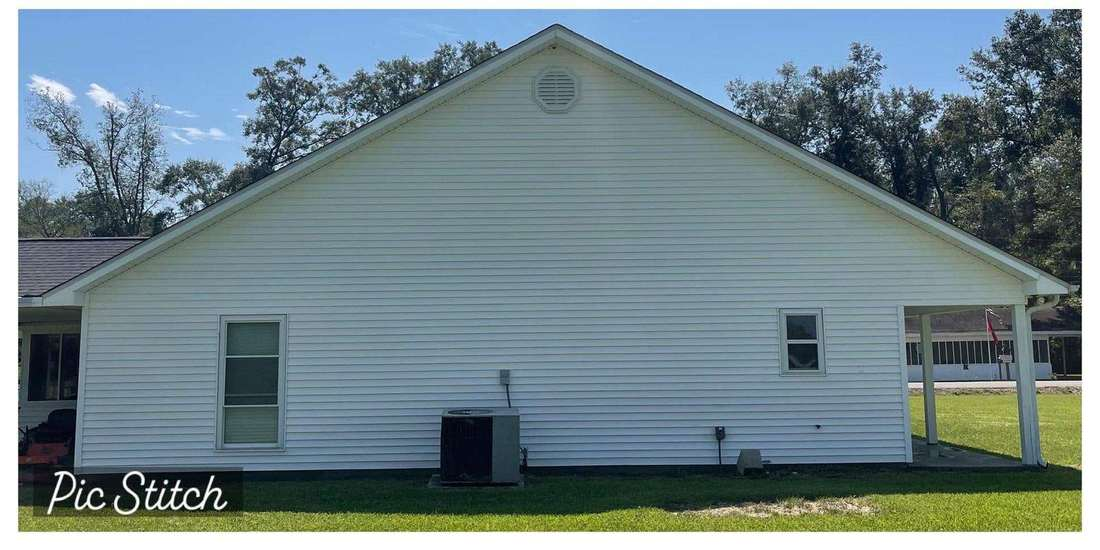
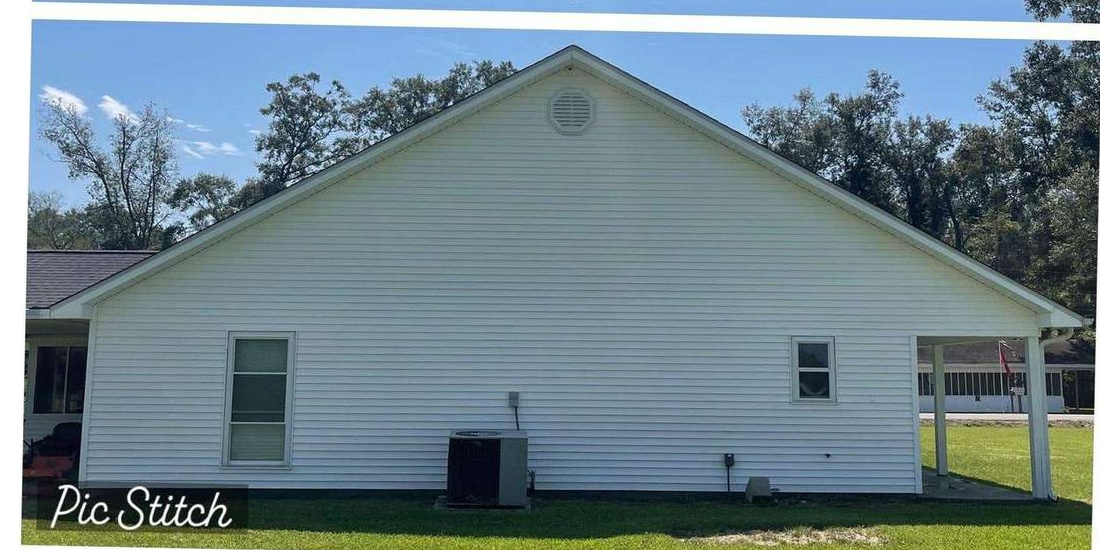
Add files via upload

diff --git a/style.css b/style.css
@@ -95,16 +95,23 @@ ul { list-style: none; margin: 0; padding: 0; }
 
 .hero-visual { position: relative; transform: translate3d(0, var(--hero-shift, 0), 0); will-change: transform; animation: hero-settle .9s .18s cubic-bezier(.2,.75,.2,1) both; }
 .ba-frame { position: relative; padding: 11px; background: rgba(255,255,255,.1); border: 1px solid rgba(255,255,255,.18); border-radius: 34px; box-shadow: 0 40px 85px -30px rgba(0,0,0,.7); backdrop-filter: blur(8px); transform: rotate(1.1deg); }
-.ba-slider { position: relative; aspect-ratio: 1.16; overflow: hidden; border-radius: 24px; cursor: ew-resize; user-select: none; background: var(--navy-deep); }
-.ba-slider:focus-visible { outline-color: var(--white); }
-.ba-img { position: absolute; inset: 0; height: 100%; object-fit: cover; pointer-events: none; }
-.ba-clip { position: absolute; inset: 0 auto 0 0; width: 50%; overflow: hidden; }
-.ba-clip .ba-img { width: 200%; max-width: none; }
-.ba-tag { position: absolute; top: 17px; padding: 7px 13px; color: var(--white); background: rgba(6,27,62,.75); border: 1px solid rgba(255,255,255,.18); border-radius: 999px; backdrop-filter: blur(6px); font-size: .65rem; font-weight: 800; letter-spacing: .12em; text-transform: uppercase; }
+.ba-slider { position: relative; isolation: isolate; aspect-ratio: 1.16; overflow: hidden; border-radius: 24px; cursor: crosshair; user-select: none; background: var(--navy-deep); touch-action: pan-y pinch-zoom; }
+.ba-slider::after { content: ""; position: absolute; z-index: 6; inset: 0; border: 1px solid rgba(255,255,255,.13); border-radius: inherit; box-shadow: inset 0 0 46px rgba(6,27,62,.12); pointer-events: none; }
+.ba-slider:focus-visible { outline: 2px solid var(--white); outline-offset: 4px; }
+.ba-img { position: absolute; inset: 0; width: 100%; height: 100%; object-fit: cover; object-position: 50% 50%; pointer-events: none; transform: translateZ(0); }
+.ba-clip { position: absolute; z-index: 2; inset: 0; width: 100%; overflow: hidden; clip-path: inset(0 50% 0 0); will-change: clip-path; }
+.ba-clip .ba-img { width: 100%; max-width: none; }
+.ba-tag { position: absolute; z-index: 5; top: 17px; padding: 7px 13px; color: var(--white); background: rgba(6,27,62,.75); border: 1px solid rgba(255,255,255,.18); border-radius: 999px; backdrop-filter: blur(6px); font-size: .65rem; font-weight: 800; letter-spacing: .12em; text-transform: uppercase; transition: transform .35s cubic-bezier(.2,.75,.2,1), background .35s ease, box-shadow .35s ease; }
 .ba-tag-before { left: 17px; }.ba-tag-after { right: 17px; background: rgba(20,116,228,.82); }
-.ba-handle { position: absolute; top: 0; bottom: 0; width: 3px; display: flex; align-items: center; justify-content: center; background: var(--white); transform: translateX(-50%); box-shadow: 0 0 0 1px rgba(6,27,62,.08); }
-.ba-handle span { width: 48px; height: 48px; display: grid; place-items: center; color: var(--navy); background: var(--white); border: 5px solid rgba(255,255,255,.26); border-radius: 50%; box-shadow: 0 10px 24px rgba(6,27,62,.32); font-size: 1.25rem; font-weight: 800; white-space: nowrap; }
+.ba-slider.is-revealing .ba-tag { transform: translateY(-2px); box-shadow: 0 8px 22px rgba(6,27,62,.18); }
+.ba-handle { position: absolute; z-index: 4; top: 0; bottom: 0; left: 50%; width: 2px; background: linear-gradient(to bottom, rgba(255,255,255,.18), rgba(255,255,255,.98) 14%, #8fd0ff 50%, rgba(255,255,255,.98) 86%, rgba(255,255,255,.18)); transform: translateX(-50%); box-shadow: 0 0 10px rgba(255,255,255,.45), 0 0 24px rgba(66,165,255,.28); pointer-events: none; will-change: left; transition: opacity .3s ease, box-shadow .3s ease; }
+.ba-handle::before { content: ""; position: absolute; inset: 0 -24px; background: linear-gradient(90deg, transparent, rgba(255,255,255,.04) 28%, rgba(143,208,255,.13) 50%, rgba(255,255,255,.04) 72%, transparent); opacity: .5; filter: blur(3px); transition: opacity .3s ease; }
+.ba-handle::after { content: ""; position: absolute; top: 50%; left: 50%; width: 7px; height: 7px; border-radius: 50%; background: var(--white); box-shadow: 0 0 0 5px rgba(255,255,255,.1), 0 0 24px 7px rgba(66,165,255,.35); transform: translate(-50%, -50%); opacity: .72; transition: transform .3s cubic-bezier(.2,.75,.2,1), opacity .3s ease; }
+.ba-slider.is-revealing .ba-handle { box-shadow: 0 0 12px rgba(255,255,255,.72), 0 0 34px rgba(66,165,255,.58); }
+.ba-slider.is-revealing .ba-handle::before { opacity: 1; }
+.ba-slider.is-revealing .ba-handle::after { opacity: 1; transform: translate(-50%, -50%) scale(1.18); }
 .ba-caption { position: absolute; left: 50%; bottom: -37px; color: rgba(255,255,255,.67); font-size: .76rem; font-weight: 600; transform: translateX(-50%); white-space: nowrap; }
+.ba-caption-touch { display: none; }
 .hero-proof { position: absolute; right: -24px; bottom: 41px; z-index: 3; min-width: 220px; padding: 17px 20px; color: var(--ink); background: var(--white); border-left: 4px solid var(--coral); border-radius: 12px; box-shadow: 0 22px 45px -24px rgba(0,0,0,.8); transform: rotate(-2deg); animation: proof-float 5s 1.1s ease-in-out infinite; }
 .hero-proof strong, .hero-proof span { display: block; }.hero-proof strong { color: var(--navy); font-size: .9rem; }.hero-proof span { margin-top: 3px; color: var(--muted); font-size: .72rem; }
 .hero-swoop { position: absolute; z-index: 1; left: -5%; right: -5%; bottom: -80px; height: 150px; background: var(--white); border-radius: 50% 50% 0 0 / 45% 45% 0 0; }
@@ -271,7 +278,7 @@ ul { list-style: none; margin: 0; padding: 0; }
   .nav-toggle { display: flex; }.nav-toggle.active span:nth-child(1) { transform: translateY(7px) rotate(45deg); }.nav-toggle.active span:nth-child(2) { opacity: 0; }.nav-toggle.active span:nth-child(3) { transform: translateY(-7px) rotate(-45deg); }
   .main-nav { position: fixed; inset: 102px 0 auto; max-height: calc(100vh - 102px); display: grid; gap: 0; padding: 18px 24px 28px; background: var(--white); border-bottom: 1px solid var(--line); box-shadow: 0 24px 40px -30px rgba(6,27,62,.55); opacity: 0; visibility: hidden; transform: translateY(-12px); transition: opacity .2s ease, transform .2s ease, visibility .2s ease; }
   .main-nav.open { opacity: 1; visibility: visible; transform: translateY(0); }.main-nav > a { padding: 15px 3px; border-bottom: 1px solid var(--line); }.main-nav .nav-cta { margin-top: 13px; padding: 14px 20px; text-align: center; }
-  .hero { padding: 59px 0 125px; }.hero-grid { gap: 51px; }.hero h1 { font-size: clamp(3.3rem, 17vw, 5rem); }.hero-sub { font-size: .92rem; }.hero-actions { display: grid; }.hero-actions .btn { width: 100%; }.trust-list { gap: 11px 17px; }.ba-frame { padding: 7px; border-radius: 24px; transform: none; }.ba-slider { border-radius: 18px; }.hero-proof { right: -5px; bottom: 32px; min-width: 184px; padding: 13px 16px; }.hero-proof strong { font-size: .8rem; }.hero-proof span { font-size: .65rem; }.ba-caption { bottom: -34px; }.hero-swoop { height: 110px; bottom: -62px; }
+  .hero { padding: 59px 0 125px; }.hero-grid { gap: 51px; }.hero h1 { font-size: clamp(3.3rem, 17vw, 5rem); }.hero-sub { font-size: .92rem; }.hero-actions { display: grid; }.hero-actions .btn { width: 100%; }.trust-list { gap: 11px 17px; }.ba-frame { padding: 7px; border-radius: 24px; transform: none; }.ba-slider { border-radius: 18px; cursor: ew-resize; }.ba-caption-desktop { display: none; }.ba-caption-touch { display: inline; }.hero-proof { right: -5px; bottom: 32px; min-width: 184px; padding: 13px 16px; }.hero-proof strong { font-size: .8rem; }.hero-proof span { font-size: .65rem; }.ba-caption { bottom: -34px; }.hero-swoop { height: 110px; bottom: -62px; }
   .proof-strip { margin-top: -12px; }.proof-grid { padding: 19px 10px; border-radius: 16px; }.proof-grid > div { gap: 9px; padding-left: 11px; padding-right: 11px; }.proof-grid strong { font-size: 1.4rem; }.proof-grid span { font-size: .61rem; }
   .section-heading { grid-template-columns: 1fr; gap: 18px; margin-bottom: 36px; }.section-heading h2, .about h2, .areas h2, .quote h2 { font-size: clamp(2.55rem, 12vw, 3.5rem); }
   .service-grid { grid-template-columns: 1fr; }.service-card { min-height: 285px; }
@@ -294,4 +301,10 @@ ul { list-style: none; margin: 0; padding: 0; }
   *, *::before, *::after { scroll-behavior: auto !important; animation-duration: .01ms !important; animation-iteration-count: 1 !important; transition-duration: .01ms !important; }
   .scroll-progress { display: none; }
   .hero-visual, .hero-orbit, .motion-ready .reveal { opacity: 1; transform: none; }
+}
+
+@media (hover: none) {
+  .ba-slider { cursor: ew-resize; }
+  .ba-caption-desktop { display: none; }
+  .ba-caption-touch { display: inline; }
 }

diff --git a/script.js b/script.js
@@ -3,105 +3,161 @@
   if (!slider) return;
 
   const clip = slider.querySelector('.ba-clip');
-  const beforeImage = clip?.querySelector('.ba-before');
   const handle = slider.querySelector('.ba-handle');
-  if (!clip || !beforeImage || !handle) return;
+  if (!clip || !handle) return;
 
-  let value = 50;
-  let dragging = false;
-  let activePointerId = null;
-  let startX = 0;
-  let startY = 0;
-  let dragIntent = null;
+  const reducedMotion = window.matchMedia?.('(prefers-reduced-motion: reduce)').matches ?? false;
+  let targetValue = 50;
+  let renderedValue = 50;
+  let animationFrame = null;
+  let touchPointerId = null;
+  let touchStartX = 0;
+  let touchStartY = 0;
+  let touchIntent = null;
 
-  slider.style.touchAction = 'pan-y pinch-zoom';
+  const clamp = (value) => Math.max(0, Math.min(100, value));
 
-  const update = (nextValue) => {
-    value = Math.max(0, Math.min(100, Math.round(nextValue)));
-    clip.style.width = `${value}%`;
-    beforeImage.style.width = `${slider.getBoundingClientRect().width}px`;
-    handle.style.left = `${value}%`;
-    slider.setAttribute('aria-valuenow', String(value));
-    slider.setAttribute('aria-valuetext', `${value} percent before image`);
+  const render = (value) => {
+    const safeValue = clamp(value);
+    clip.style.clipPath = `inset(0 ${100 - safeValue}% 0 0)`;
+    handle.style.left = `${safeValue}%`;
+    slider.setAttribute('aria-valuenow', String(Math.round(safeValue)));
+    slider.setAttribute('aria-valuetext', `${Math.round(safeValue)} percent before image revealed`);
   };
 
-  const updateFromPointer = (event) => {
-    const rect = slider.getBoundingClientRect();
-    update(((event.clientX - rect.left) / rect.width) * 100);
-  };
+  const animateReveal = () => {
+    const distance = targetValue - renderedValue;
+    const easing = Math.min(0.28, 0.14 + Math.abs(distance) * 0.002);
+    renderedValue += distance * easing;
 
-  const releaseCapture = (pointerId) => {
-    if (pointerId !== null && slider.hasPointerCapture?.(pointerId)) slider.releasePointerCapture(pointerId);
-  };
-
-  const endDrag = (event) => {
-    if (event && activePointerId !== null && event.pointerId !== activePointerId) return;
-    releaseCapture(activePointerId);
-    dragging = false;
-    dragIntent = null;
-    activePointerId = null;
-  };
-
-  slider.addEventListener('pointerdown', (event) => {
-    if (event.pointerType === 'mouse' && event.button !== 0) return;
-    dragging = true;
-    activePointerId = event.pointerId;
-    startX = event.clientX;
-    startY = event.clientY;
-    dragIntent = event.pointerType === 'touch' ? null : 'horizontal';
-
-    if (event.pointerType !== 'touch') {
-      slider.setPointerCapture?.(event.pointerId);
-      updateFromPointer(event);
+    if (Math.abs(distance) < 0.04) {
+      renderedValue = targetValue;
+      animationFrame = null;
+      render(renderedValue);
+      return;
     }
+
+    render(renderedValue);
+    animationFrame = window.requestAnimationFrame(animateReveal);
+  };
+
+  const setTarget = (value, immediate = false) => {
+    targetValue = clamp(value);
+
+    if (immediate || reducedMotion) {
+      if (animationFrame !== null) window.cancelAnimationFrame(animationFrame);
+      animationFrame = null;
+      renderedValue = targetValue;
+      render(renderedValue);
+      return;
+    }
+
+    if (animationFrame === null) animationFrame = window.requestAnimationFrame(animateReveal);
+  };
+
+  const valueFromPointer = (event) => {
+    const rect = slider.getBoundingClientRect();
+    if (!rect.width) return targetValue;
+    return ((event.clientX - rect.left) / rect.width) * 100;
+  };
+
+  const endTouch = (event) => {
+    if (event && touchPointerId !== null && event.pointerId !== touchPointerId) return;
+    if (touchPointerId !== null && slider.hasPointerCapture?.(touchPointerId)) {
+      slider.releasePointerCapture(touchPointerId);
+    }
+    touchPointerId = null;
+    touchIntent = null;
+    slider.classList.remove('is-revealing');
+  };
+
+  slider.addEventListener('pointerenter', (event) => {
+    if (event.pointerType !== 'mouse' && event.pointerType !== 'pen') return;
+    slider.classList.add('is-revealing');
+    setTarget(valueFromPointer(event));
   });
 
   slider.addEventListener('pointermove', (event) => {
-    if (!dragging || event.pointerId !== activePointerId) return;
+    if (event.pointerType === 'mouse' || event.pointerType === 'pen') {
+      slider.classList.add('is-revealing');
+      setTarget(valueFromPointer(event));
+      return;
+    }
 
-    if (event.pointerType === 'touch' && dragIntent === null) {
-      const deltaX = Math.abs(event.clientX - startX);
-      const deltaY = Math.abs(event.clientY - startY);
+    if (event.pointerType !== 'touch' || event.pointerId !== touchPointerId) return;
+
+    if (touchIntent === null) {
+      const deltaX = Math.abs(event.clientX - touchStartX);
+      const deltaY = Math.abs(event.clientY - touchStartY);
       if (Math.max(deltaX, deltaY) < 7) return;
 
       if (deltaY > deltaX) {
-        endDrag(event);
+        endTouch(event);
         return;
       }
 
-      dragIntent = 'horizontal';
+      touchIntent = 'horizontal';
       slider.setPointerCapture?.(event.pointerId);
+      slider.classList.add('is-revealing');
     }
 
-    if (dragIntent === 'horizontal') updateFromPointer(event);
+    if (touchIntent === 'horizontal') {
+      event.preventDefault();
+      setTarget(valueFromPointer(event));
+    }
+  });
+
+  slider.addEventListener('pointerleave', (event) => {
+    if (event.pointerType !== 'mouse' && event.pointerType !== 'pen') return;
+    slider.classList.remove('is-revealing');
+    setTarget(50);
+  });
+
+  slider.addEventListener('pointerdown', (event) => {
+    if (event.pointerType !== 'touch') return;
+    touchPointerId = event.pointerId;
+    touchStartX = event.clientX;
+    touchStartY = event.clientY;
+    touchIntent = null;
   });
 
   slider.addEventListener('pointerup', (event) => {
-    if (dragging && dragIntent === 'horizontal') updateFromPointer(event);
-    endDrag(event);
+    if (event.pointerType === 'touch' && touchIntent === 'horizontal') setTarget(valueFromPointer(event));
+    endTouch(event);
   });
-  slider.addEventListener('pointercancel', endDrag);
+  slider.addEventListener('pointercancel', endTouch);
   slider.addEventListener('lostpointercapture', () => {
-    dragging = false;
-    dragIntent = null;
-    activePointerId = null;
+    touchPointerId = null;
+    touchIntent = null;
+    slider.classList.remove('is-revealing');
+  });
+
+  slider.addEventListener('focus', () => slider.classList.add('is-revealing'));
+  slider.addEventListener('blur', () => {
+    slider.classList.remove('is-revealing');
+    setTarget(50);
   });
 
   slider.addEventListener('keydown', (event) => {
     if (event.key === 'ArrowLeft' || event.key === 'ArrowDown') {
       event.preventDefault();
-      update(value - (event.shiftKey ? 10 : 2));
+      setTarget(targetValue - (event.shiftKey ? 10 : 3));
     }
     if (event.key === 'ArrowRight' || event.key === 'ArrowUp') {
       event.preventDefault();
-      update(value + (event.shiftKey ? 10 : 2));
+      setTarget(targetValue + (event.shiftKey ? 10 : 3));
     }
-    if (event.key === 'Home') update(0);
-    if (event.key === 'End') update(100);
+    if (event.key === 'Home') {
+      event.preventDefault();
+      setTarget(0);
+    }
+    if (event.key === 'End') {
+      event.preventDefault();
+      setTarget(100);
+    }
   });
 
-  window.addEventListener('resize', () => update(value));
-  update(50);
+  render(50);
 })();
 
 (() => {

diff --git a/index.html b/index.html
@@ -73,9 +73,12 @@
               </div>
               <span class="ba-tag ba-tag-before">Before</span>
               <span class="ba-tag ba-tag-after">After</span>
-              <span class="ba-handle" style="left:50%"><span aria-hidden="true">‹ ›</span></span>
+              <span class="ba-handle" style="left:50%" aria-hidden="true"></span>
             </div>
-            <p class="ba-caption"><span aria-hidden="true">↔</span> Drag or use arrow keys to reveal the clean</p>
+            <p class="ba-caption">
+              <span class="ba-caption-desktop">Move your cursor across the photo to reveal the before</span>
+              <span class="ba-caption-touch">Touch and drag to compare</span>
+            </p>
           </div>
           <div class="hero-proof" aria-hidden="true">
             <strong>Ascension Parish work</strong>
